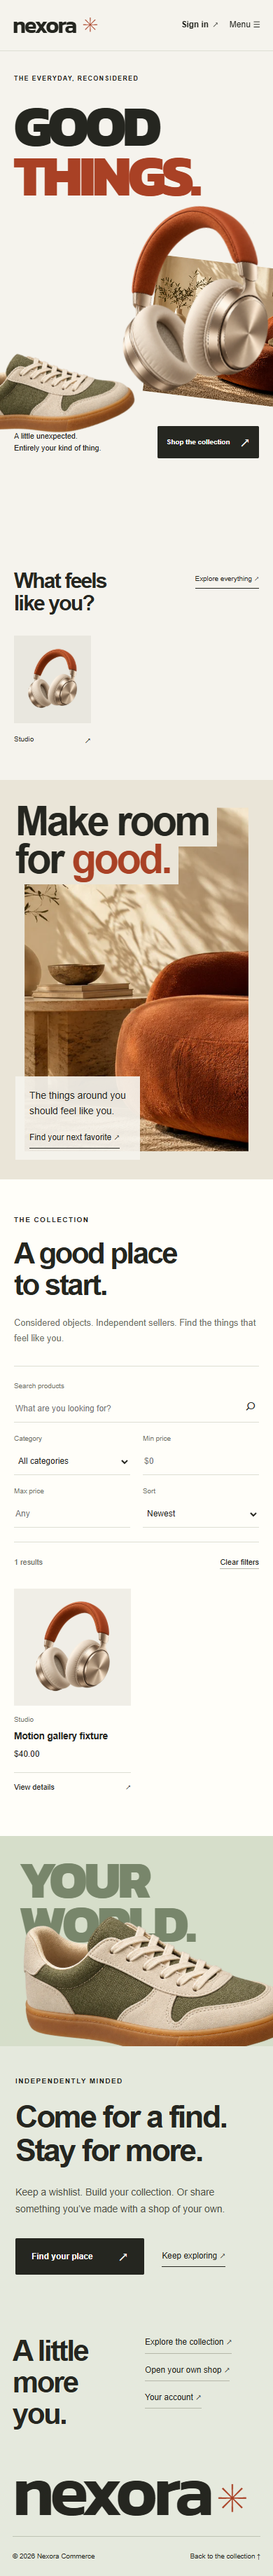
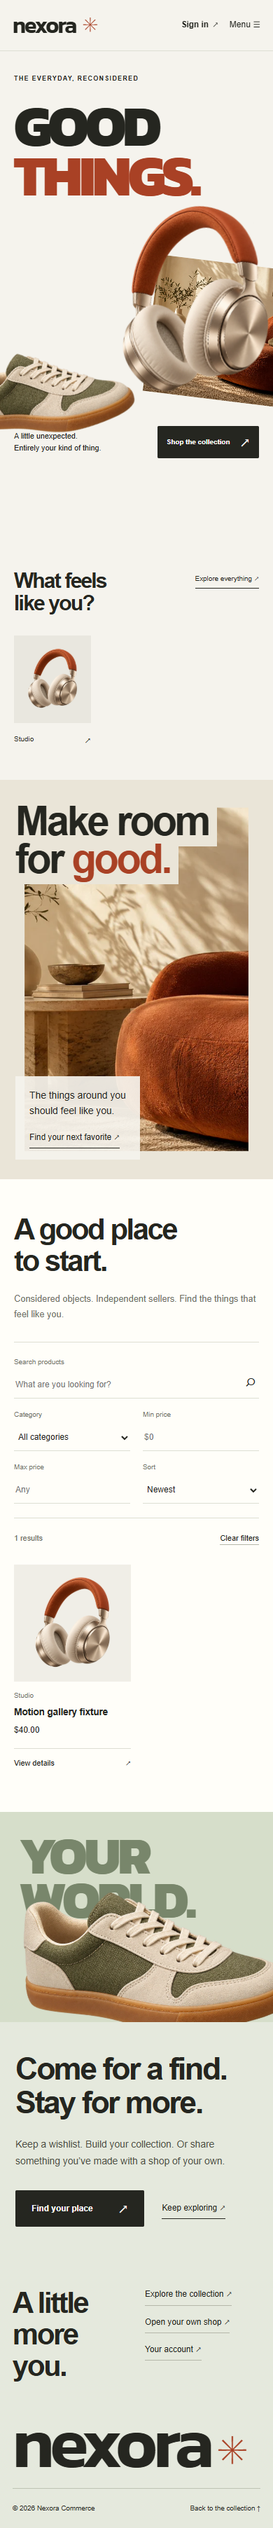
Fix route scroll position and media deep links after visual acceptance

diff --git a/frontend/src/app/app.config.ts b/frontend/src/app/app.config.ts
@@ -3,7 +3,7 @@
  */
 import { ApplicationConfig, provideBrowserGlobalErrorListeners } from '@angular/core';
 import { provideHttpClient, withInterceptors } from '@angular/common/http';
-import { provideRouter } from '@angular/router';
+import { provideRouter, withInMemoryScrolling } from '@angular/router';
 
 import { routes } from './app.routes';
 import { authInterceptor } from './core/interceptors/auth.interceptor';
@@ -12,7 +12,7 @@ import { errorInterceptor } from './core/interceptors/error.interceptor';
 export const appConfig: ApplicationConfig = {
   providers: [
     provideBrowserGlobalErrorListeners(),
-    provideRouter(routes),
+    provideRouter(routes, withInMemoryScrolling({ scrollPositionRestoration: 'top' })),
     provideHttpClient(withInterceptors([authInterceptor, errorInterceptor])),
   ],
 };

diff --git a/frontend/e2e/storefront-motion.spec.ts b/frontend/e2e/storefront-motion.spec.ts
@@ -105,6 +105,7 @@ test('desktop scroll and pointer move the rendered collection, and route navigat
     .getByRole('link', { name: /View details/ })
     .click();
   await expect(page).toHaveURL(/products\/motion-fixture$/);
+  await expect(page.getByRole('heading', { level: 1, name: fixtureProduct.name })).toBeInViewport();
   expect(await page.evaluate(() => (window as any).ScrollCraft.instances.length)).toBe(0);
   expect(errors).toEqual([]);
 });

diff --git a/frontend/src/app/features/products/product-list/product-list.scss b/frontend/src/app/features/products/product-list/product-list.scss
@@ -706,9 +706,6 @@
   }
 }
 @media (max-width: 800px) {
-  .scene-window {
-    pointer-events: none;
-  }
   .hero-stage {
     min-height: 760px;
     height: auto;
@@ -747,6 +744,7 @@
   }
   .scene-window {
     top: 30%;
+    pointer-events: none;
     right: 4%;
     width: 66%;
   }

diff --git a/docs/MOTION_DESIGN.md b/docs/MOTION_DESIGN.md
@@ -33,7 +33,7 @@ The visual review followed the intended curve: bold opening, useful choices, exp
 
 Three images were generated with the built-in image generation tool, inspected, and encoded as WebP. Their combined size is **623,358 bytes**. [Asset provenance and exact prompts](CAMPAIGN_ASSETS.md) distinguish campaign imagery from actual seller listings. Fonts and imagery are served locally; the storefront does not depend on a remote image service.
 
-The production initial bundle is approximately **532 KB raw / 108 KB estimated transferred**, within the existing 540 KB warning and 600 KB error budgets. No animation library or production dependency was added. The shared ScrollCraft source is unchanged.
+The production initial bundle is approximately **536 KB raw / 109 KB estimated transferred**, within the existing 540 KB warning and 600 KB error budgets. No animation library or production dependency was added. The shared ScrollCraft source is unchanged.
 
 Phones use ordinary document flow with short scroll-linked image transforms. The desktop engine is not mounted at 800px or below. Mobile updates run outside Angular and are coalesced into one animation frame per scroll event. Reduced-motion mode keeps the complete static composition, catalog and controls. Route changes release the engine, observers and event handlers.
 
@@ -49,6 +49,10 @@ Phones use ordinary document flow with short scroll-linked image transforms. The
 The first failed browser screenshots remain in the local work folder. The stock mobile harness timed out waiting for `html.sc-ready`; that failure was retained and resolved by waiting for the Angular storefront in the application-specific harness. The stock contrast checker sees no `data-sc-cue` elements here and does **not** certify contrast. Actual screenshots were reviewed, including intermediate images, populated forms, order tracking, the seller editor and moderation.
 
 These are desktop Chrome viewport checks, not tests on physical phones or Safari. The full-stack journeys are separate: [PR checks](https://github.com/hujaafar/nexora-commerce/pull/1/checks) run the live customer/seller browser journeys, HTTP/HTTPS API acceptance, quality gate, artifact verification and rollback drills on hosted runners. See [validation](VALIDATION.md) for earlier infrastructure evidence.
+
+A follow-up journey check reproduced retained scroll position when opening a product from the catalog. Router navigation now starts at the top, and the browser test requires the product heading to be in view. The first hosted analysis flagged one duplicate mobile CSS selector; its declarations were consolidated. Both failure reports were retained before the rerun.
+
+The new route sweep also exposed an existing Nginx collision: `/media` matched the emitted font directory and redirected away from the application port. HTTP and HTTPS configuration now resolve files before falling back to the SPA, and acceptance checks require `/media` to serve the app on both protocols. The original failure artifacts are retained.
 
 Docker stays stopped on the constrained local laptop. The static preview displays the new interface and honest service-unavailable states; it does not simulate authentication, checkout or backend availability. Populated review screenshots use synthetic data intercepted only inside test browser contexts. The animated preview shows campaign motion, not a completed purchase.
 
